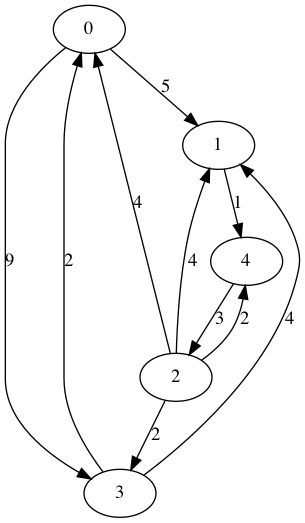
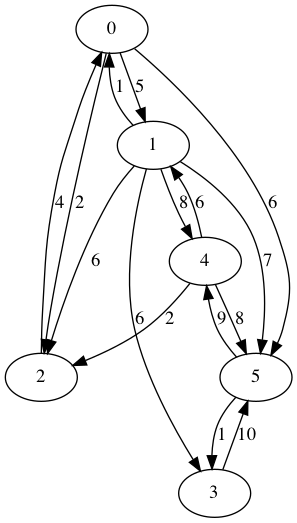
add answer checker

diff --git a/data/problem.html b/data/problem.html
@@ -9,13 +9,9 @@
     <p>Date: </p>
 <h3 id="dijkstra算法求最短路">dijkstra算法求最短路</h3>
 <p>请使用dijkstra算法求最短路径</p>
-<p>下图中，编号为 0 的结点是起点，编号为 4
+<p>下图中，编号为 0 的结点是起点，编号为 5
 是终点。请计算从起点到终点的最短路。</p>
 <p>答案为一个正整数，如果从起点到终点不存在一条路径，请提交2147483647。</p>
-<figure>
-<img src="/Users/chenzm/Projects/2022/2022single/images/dijkstra.png"
-alt="dijkstra.png" />
-<figcaption aria-hidden="true">dijkstra.png</figcaption>
-</figure>
+<!-- ![dijkstra.png](/Users/chenzm/Projects/2022/2022single/images/dijkstra.png)  -->
   </body>
 </html>

diff --git a/app.py b/app.py
@@ -15,7 +15,7 @@ def base64ToString(b):
 
 app = Flask(__name__)
 
-@app.route('/algorithm/dijkstra', methods = ['GET'])
+@app.route('/algorithm/dijkstra', methods = ['GET', 'POST'])
 def dijkstra():
     if request.method == 'GET':
         # N = request.form['N']
@@ -27,9 +27,9 @@ def dijkstra():
 
         filepath_in, filepath_ans, filepath_problem, filepath_image = run()
 
-        file_in = open(filepath_in,"r")
-        data_in = file_in.read()
-        file_in.close()
+        # file_in = open(filepath_in,"r")
+        # data_in = file_in.read()
+        # file_in.close()
 
         file_ans = open(filepath_ans,"r")
         data_ans = file_ans.read()
@@ -59,7 +59,18 @@ def dijkstra():
         }
         return jsonify(data)
     elif request.method == 'POST':
-        return 'haha'
+        filepath_ans = './data/data.ans' #答案地址
+        file_ans = open(filepath_ans,"r")
+        data_ans = file_ans.read()
+        file_ans.close()
+
+        data_input = request.get_json()
+        print(request.get_json())
+        data = {
+            'answer': data_ans==data_input['answer'],
+            'right_answer': data_ans,
+        }
+        return jsonify(data)
 
 @app.route('/images/<filepath>', methods = ['GET'])
 def download_imagess(filepath):

diff --git a/algorithm/shortestpath/generator.py b/algorithm/shortestpath/generator.py
@@ -70,6 +70,6 @@ def gen_problem(S,T):
 
 答案为一个正整数，如果从起点到终点不存在一条路径，请提交2147483647。
 
-![dijkstra.png](/Users/chenzm/Projects/2022/2022single/images/dijkstra.png)
+<!-- ![dijkstra.png](/Users/chenzm/Projects/2022/2022single/images/dijkstra.png)  -->
     '''
     return problem

diff --git a/data/problem.md b/data/problem.md
@@ -4,10 +4,10 @@
 请使用dijkstra算法求最短路径 
 
 
-下图中，编号为 0 的结点是起点，编号为 4 是终点。请计算从起点到终点的最短路。
+下图中，编号为 0 的结点是起点，编号为 5 是终点。请计算从起点到终点的最短路。
 
 
 答案为一个正整数，如果从起点到终点不存在一条路径，请提交2147483647。
 
-![dijkstra.png](/Users/chenzm/Projects/2022/2022single/images/dijkstra.png)
+<!-- ![dijkstra.png](/Users/chenzm/Projects/2022/2022single/images/dijkstra.png)  -->
     
